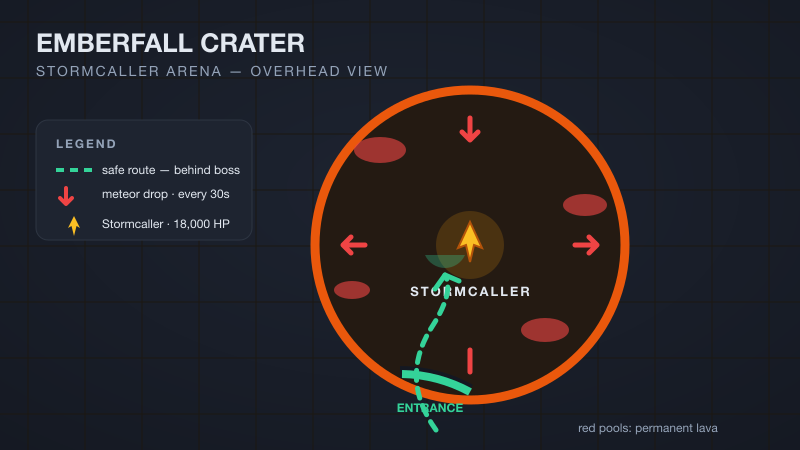
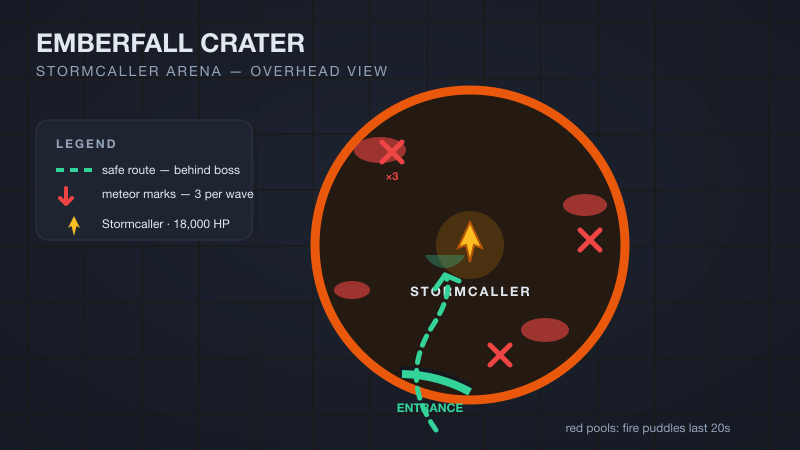
fix(demo): 专家团复审补丁 — 图内事实对齐正文 + fork 素材清理 + 指引闭环 (v1.17.1)
A 批(图与正文事实矛盾):
- 竞技场图:4 固定陨石标记→3 靠边标记(正文"每 30s 标 3 点,引到边缘");
  "permanent lava"→"fire puddles last 20s"(正文 20 秒)
- 机制图:"~1.5s dodge window"→"2s to move after each mark"(正文标记后 2s 落地);
  "save your dash for the volley"(Emberfang 设定串台)→"melee: stand at her
  side or back";补 Flame Whip "1.2s wind-up · 600 damage" 数据
- Frostpike 卡:"Freeze on hit"(图自创触发条件)→"Freeze utility"(正文原话)
- stormcaller gallery 图注同步 "meteor marks near the edges"

B 批(fork 孤儿素材):
- apply-template 新增 clearDemoAssets:按名删 5 张 demo 封面 + 整删
  src/assets/gallery、public/images/articles(不误伤用户素材);
  setup.yml 清理步骤同步同一清单(fork 真模拟:temp clone 删文件后 build 绿,
  hero/favicon 正确保留)

C/D 批(指引闭环):
- PRD §14 补 v1.17 行;学习手册 first-10-pages 中英新增「提示词 D:配图与视频」
  (素材来源红线/放置路径/密度表指引),description 三段→四段(en 164/165 字符);
  content.config.ts gallery 注释补 demo 目录约定

验证: check-content / 60 tests(handbook parity) / typecheck / lint / build /
check-links(2929) 全绿;改动的 3 张图经视觉模型逐字核验。

diff --git a/src/config/landing.ts b/src/config/landing.ts
@@ -11,7 +11,7 @@
  */
 
 /** Keep in sync with package.json "version" (used by the announcement bar). */
-export const PROJECT_VERSION = '1.17.0';
+export const PROJECT_VERSION = '1.17.1';
 
 export type LandingLocale = 'en' | 'zh';
 
@@ -185,7 +185,7 @@ const en: LandingContent = {
   description:
     'An open-source game wiki template with an AI-native content workflow: pick the right game, generate pages by talking to your AI tool, codes pages stay fresh on autopilot. Lighthouse 4×100, free on Cloudflare, 100% ad revenue yours.',
   announcement: {
-    text: `v${PROJECT_VERSION} shipped — demo media enrichment: every article type now demonstrates covers, galleries, inline card images, and video embeds, with media-density guidance for AI content workflows.`,
+    text: `v${PROJECT_VERSION} shipped — expert-panel re-review: demo artwork facts aligned with article text, fork cleanup no longer leaves orphan demo images, media guidance now in the handbook too.`,
     href: RELEASES,
   },
   hero: {
@@ -473,7 +473,7 @@ const zh: LandingContent = {
   description:
     '开源游戏 wiki 模板 + AI 原生内容工作流:选对游戏、和 AI 对话就能产页、codes 页自动保鲜。Lighthouse 4×100、Cloudflare 免费部署、广告收入 100% 归你。',
   announcement: {
-    text: `v${PROJECT_VERSION} 发布 —— demo 媒体增强:每类文章都完整示范封面/画廊/内联卡片图/视频嵌入,并为 AI 内容工作流补齐媒体密度指引。`,
+    text: `v${PROJECT_VERSION} 发布 —— 专家团复审:demo 示意图事实与正文对齐、fork 清理不再遗留孤儿素材、配图视频指引补进学习手册。`,
     href: RELEASES,
   },
   hero: {

diff --git a/scripts/apply-template.ts b/scripts/apply-template.ts
@@ -543,6 +543,42 @@ function clearDemoContent() {
       }
     }
   }
+  removed += clearDemoAssets();
+  return removed;
+}
+
+/**
+ * Demo article artwork — the 5 covers, the whole demo gallery dir, and the
+ * inline demo card images. Deleted BY NAME (not a wildcard) so covers a fork
+ * user already replaced with their own art are never touched. Keep in sync
+ * with the "Clear demo content" step in .github/workflows/setup.yml.
+ */
+const DEMO_ASSET_DIRS = ['src/assets/gallery', 'public/images/articles'];
+const DEMO_COVERS = [
+  'beginner-guide-cover.png',
+  'emberfang-cover.png',
+  'stormcaller-cover.png',
+  'weapon-tier-list-cover.png',
+  'codes-cover.png',
+];
+
+function clearDemoAssets() {
+  let removed = 0;
+  for (const dir of DEMO_ASSET_DIRS) {
+    const dirPath = path.resolve(ROOT, dir);
+    if (!fs.existsSync(dirPath)) continue;
+    if (!DRY_RUN) fs.rmSync(dirPath, { recursive: true, force: true });
+    removed++;
+  }
+  const covers = path.resolve(ROOT, 'src/assets/covers');
+  if (fs.existsSync(covers)) {
+    for (const file of fs.readdirSync(covers)) {
+      if (DEMO_COVERS.includes(file)) {
+        if (!DRY_RUN) fs.unlinkSync(path.join(covers, file));
+        removed++;
+      }
+    }
+  }
   return removed;
 }
 

diff --git a/src/content.config.ts b/src/content.config.ts
@@ -67,7 +67,9 @@ const wiki = defineCollection({
       /**
        * Optional image gallery — rendered as a thumbnail grid below the
        * article body with a native <dialog> lightbox (zero JS until click).
-       * `image` is a path relative to the MDX file (same as the cover).
+       * `image` is a path relative to the MDX file (same as the cover);
+       * demo convention: gallery art lives in `src/assets/gallery/`,
+       * covers in `src/assets/covers/`.
        */
       gallery: z
         .array(

diff --git a/docs/handbook/en/first-10-pages.md b/docs/handbook/en/first-10-pages.md
@@ -1,6 +1,6 @@
 ---
 title: "Chapter 4 · Let AI Write 10 Guides for You"
-description: "Feed game notes to your AI; three prompts produce guide, codes, and tier list pages that pass the build check. Includes search-intent table and 7 never-do rules."
+description: "Feed game notes to your AI; four prompts produce guide, codes, tier list, and media pages that pass the build check. Includes the intent table and 7 never-do rules."
 manual: learn
 order: 4
 icon: lucide:bot
@@ -51,7 +51,7 @@ How good the AI's writing turns out **is 80% decided by your materials**. Notes 
 
 ## Step 3: Use prompts to produce three kinds of pages
 
-Copy the three prompts below **as whole blocks**, replace the `<>` parts with your materials, and send them to the AI. The last line of each is the build-check clause — the AI runs the build itself after writing, and only all-green counts as delivered.
+Copy the four prompts below **as whole blocks**, replace the `<>` parts with your materials, and send them to the AI. The last line of each is the build-check clause — the AI runs the build itself after writing, and only all-green counts as delivered.
 
 ### Prompt A: a guide page (notes → article)
 
@@ -89,6 +89,28 @@ Write a tier list page from my ratings.
 **Input:** <character/gear list + my ranking reasons>
 Requirements: table-first, one conclusive reason per row; flag contested placements with a Callout warn noting version sensitivity;
 add gameVersion to frontmatter; mark untested entries [to be added] or make the whole page draft: true — no fabricating.
+When done, run pnpm check-content && pnpm build; only all-green counts as complete.
+```
+
+### Prompt D: images and video (pages people can see, not just read)
+
+Text-only pages don't compete in the game-wiki world. The template's media features (cover / gallery / inline images / video) are all built in — what's missing is you feeding the AI the material. **Screenshots and videos must be ones you captured yourself** — the AI cannot generate "gameplay screenshots" for you. Skip this step if you have no material yet, and don't lift images from the web (copyright).
+
+- **Screenshots** (boss close-ups / gear panels / maps): drag them into the chat. Inline body images go to `public/images/articles/`; mechanics/route diagrams go to the bottom gallery. 16:9 landscape works best.
+- **Video** (your own clears, uploaded to YouTube): the AI registers and embeds it — it only loads on click, so it never slows the page down.
+- How many images each page type should carry: see the media-density table in `docs/content-format.md`.
+
+```text
+Add media to the article at <article path>.
+**Input**
+Screenshots: <drag into the chat, or list file paths>
+Video: <YouTube link> (delete this line if none)
+Requirements:
+Place per the media-density guidance in docs/content-format.md: inline body images use
+![alt](/images/articles/...) with alt text describing what's actually in the image;
+mechanics/route diagrams go to frontmatter gallery, each with caption + alt;
+register the video in frontmatter videos and inline it under the matching section.
+Never describe anything the image doesn't show.
 When done, run pnpm check-content && pnpm build; only all-green counts as complete.
 ```
 

diff --git a/AGENTS.md b/AGENTS.md
@@ -8,7 +8,7 @@ AnvilWiki is an **open-source (MIT) game wiki site template** built with **Astro
 
 Goal: let beginners deploy a game wiki site to Cloudflare Pages for free (unlimited bandwidth) in ~30 minutes, with strong SEO, i18n, and ad-monetization built in.
 
-**Status (as of 2026-08-20)**: v1.17.0 released — demo media enrichment: every article type now demonstrates the template's media capabilities (codes covers, boss-guide gallery mechanics diagrams, tier-list inline card images, i18n video parity, media-density guidance in docs + skills; demo art regenerable via `scripts/gen-demo-media.mjs`). Prior: v1.16.1 — expert-panel audit batch (fork-setup build break, CJK tag 404s, FAQ rich-results compliance, hreflang, ad-slot CLS, docs sync; anvilwiki-ops 0.1.3 on npm). Prior: v1.16.0 — community showcase (3 real sites, §15.6); v1.15.0 — ops toolkit `anvilwiki-ops` published to npm (see Ops Toolkit section below) + full template + AI content skills (`.agent/skills/`) + in-site docs center (`/landing/docs`: Learning manual 8 chapters + Development manual 7 chapters, zh/en, beginner-rewritten; markdown source `docs/handbook/`, kept for forks) + 9 scripts + 3 CI workflows. Live demo: anvilwiki.pages.dev (Lighthouse 4×100).
+**Status (as of 2026-08-20)**: v1.17.1 released — expert-panel re-review of v1.17.0: demo artwork facts re-aligned with article text (meteor count/puddle duration/dodge window/whip wind-up), fork "Clear demo content" now also removes demo artwork (`clearDemoAssets` in apply-template + setup.yml sync), media prompt added to the learning handbook (zh/en). Prior: v1.17.0 — demo media enrichment: every article type now demonstrates the template's media capabilities (codes covers, boss-guide gallery mechanics diagrams, tier-list inline card images, i18n video parity, media-density guidance in docs + skills; demo art regenerable via `scripts/gen-demo-media.mjs`). Prior: v1.16.1 — expert-panel audit batch (fork-setup build break, CJK tag 404s, FAQ rich-results compliance, hreflang, ad-slot CLS, docs sync; anvilwiki-ops 0.1.3 on npm). Prior: v1.16.0 — community showcase (3 real sites, §15.6); v1.15.0 — ops toolkit `anvilwiki-ops` published to npm (see Ops Toolkit section below) + full template + AI content skills (`.agent/skills/`) + in-site docs center (`/landing/docs`: Learning manual 8 chapters + Development manual 7 chapters, zh/en, beginner-rewritten; markdown source `docs/handbook/`, kept for forks) + 9 scripts + 3 CI workflows. Live demo: anvilwiki.pages.dev (Lighthouse 4×100).
 
 ## Read These First
 

diff --git a/docs/PRD.md b/docs/PRD.md
@@ -1314,6 +1314,7 @@ describe('sitemap', () => {
 | v1.14 | 手册分册成页 + 章节拆细（8+6 章、列表展示） | 中 | ✅ 已实现（学习/开发手册各自独立成页 /landing/docs/learn|dev（中英四页）+ 手册页编号列表；学习 5→8 章（装工具/上线/收录/接广告各自独立）、开发 4→6 章（定制/集成各一分为二）；hub 改选择页（全景清单+两张手册卡）；互链全部重接、旧 slug 零残留；en 14 章 2 agent 同源重写） |
 | v1.15 | 站长运营 CLI + MCP（`anvilwiki-ops`：第一性原理路线②④产能闭环） | 高 | ✅ 已实现（`tools/anvil-ops/` 独立 npm 包双 bin：`anvil-ops` CLI + stdio MCP server；doctor/metrics/audit/insights/submit 五命令 = 五 MCP 工具；GSC 服务账号 + CF Web Analytics GraphQL 双数据源，env 门控空=禁用；insights 5 规则引擎（阈值常量集中）；submit=校验→分支→push→gh 开 PR，永不 push main；56 测试+真 git bare 集成测试；开发手册新增第 7 章「AI 自动化运营」中英；**anvilwiki-ops 0.1.1 已上架 npm，`npx anvilwiki-ops` 实名验证通过**；v1.15.0 已发版） |
 | v1.16 | 社区案例库（Showcase：真实用户站点展示） | 低 | ✅ 已实现（首批 3 站点 aniimo.wiki / nomanssky.wiki / steal-anegg.wiki；数据源唯一 `landing.ts` 的 `COMMUNITY_SITES`，展示 3 处：/landing 与 /zh/landing 的 CommunitySites 区块 + README 中英表格；数据与组件均在 CLI `LANDING_PATHS` 内，fork 自动清理；详见 §15.6；v1.16.0 已发版） |
+| v1.17 | demo 媒体示范 + 媒体密度指引（拉平「能力 vs 示范」倒挂） | 中 | ✅ 已实现（每类文章完整示范媒体能力：codes 双语封面、boss 机制画廊（`src/assets/gallery/`）、tier-list 正文内联卡片图（`public/images/articles/`）、i18n 视频对齐；`scripts/gen-demo-media.mjs` 生成 7 张示意图可复现；`.prose img:not([class])` 16:9 零 CLS 盒子；媒体密度表进 content-format.md / anvil-new-article skill / AGENTS.md / 学习手册 first-10-pages 章中英；fork 清理：apply-template `clearDemoAssets` + setup.yml 同步按名删 demo 素材（fork 模拟构建绿）；v1.17.0 已发版，v1.17.1 复审补丁（图内事实校正：3 标记/20s puddle/2s 窗口/wind-up 数值对齐正文）） |
 
 **v1.3 范围说明**：
 - `timeline`：✅ 实现 —— 版本日志/活动时序，零副作用，商业价值正（老玩家点进 patch notes 文章页）。

diff --git a/CHANGELOG.md b/CHANGELOG.md
@@ -5,6 +5,18 @@ All notable changes to AnvilWiki are documented here.
 The format is based on [Keep a Changelog](https://keepachangelog.com/en/1.1.0/),
 and this project adheres to [Semantic Versioning](https://semver.org/spec/v2.0.0.html).
 
+## [1.17.1] — 2026-08-20
+
+**专家团复审补丁:demo 图内事实校正 + fork 素材清理 + 指引闭环。**
+
+### Fixed
+- **demo 图与正文事实矛盾**(复审 A 批):竞技场图 4 个固定陨石标记→3 个靠边标记(正文"每 30s 标 3 个点,引到边缘");"permanent lava"→"fire puddles last 20s"(正文 20 秒);机制图 "~1.5s dodge window"→"2s to move after each mark"(正文标记后 2 秒落地)、"save your dash for the volley"(Emberfang 的设定串台)→"melee: stand at her side or back" 并补 Flame Whip "1.2s wind-up · 600 damage" 数据;Frostpike 卡 "Freeze on hit"(图自创触发条件)→"Freeze utility"(正文原话);stormcaller gallery 图注同步改"meteor marks near the edges"。
+- **fork 选 "Clear demo content" 后留下 11 张孤儿 demo 图**(约 340KB):`apply-template` 新增 `clearDemoAssets`(按名删 5 张 demo 封面 + 整删 `src/assets/gallery`、`public/images/articles`,不误伤用户自换素材),`setup.yml` 清理步骤同步同一清单(fork 真模拟构建验证)。
+
+### Docs
+- PRD §14 roadmap 补 v1.17 行(v1.15/v1.16 惯例对齐)。
+- 学习手册「前 10 篇文章」章中英新增**提示词 D:配图与视频**(截图/视频来源红线、放置路径、密度表指引),frontmatter description 三段→四段;`content.config.ts` gallery 注释补 demo 目录约定。
+
 ## [1.17.0] — 2026-08-20
 
 **demo 媒体增强:每类文章完整示范模板的媒体能力,补齐 AI 内容工作流的媒体密度指引。**
